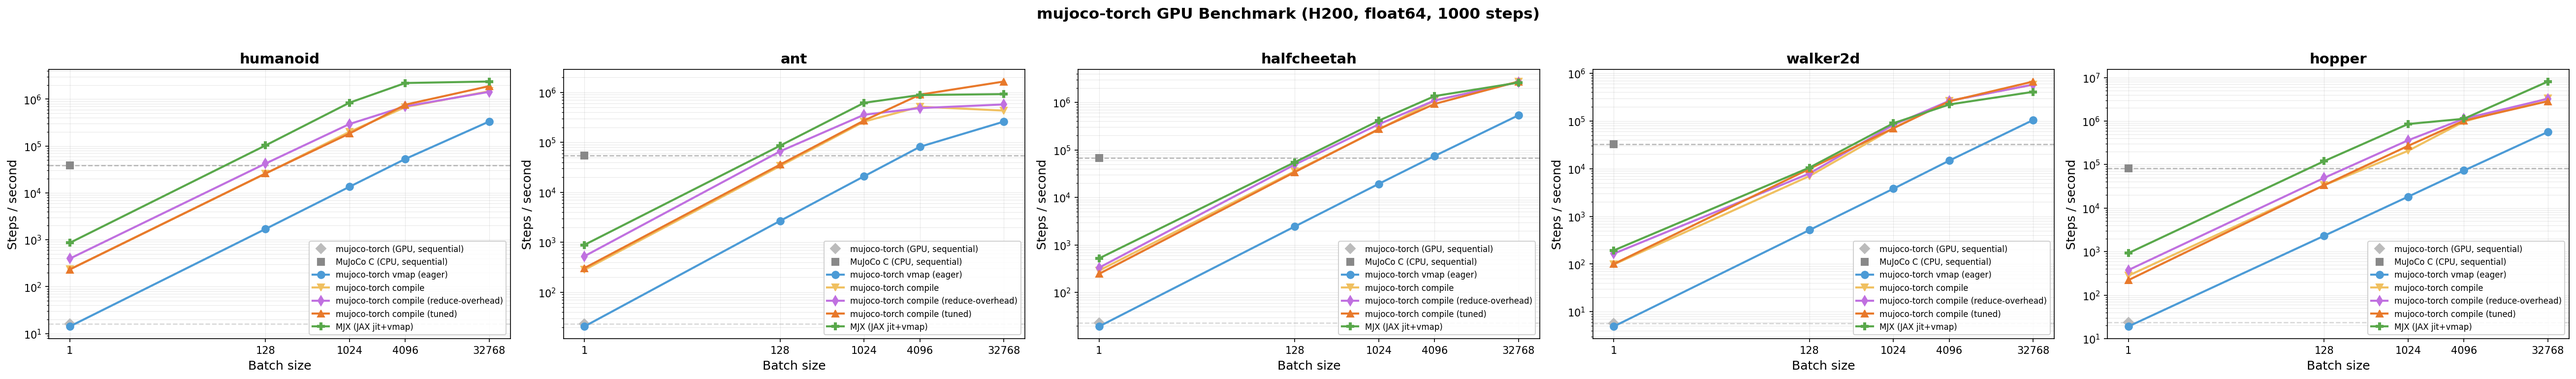
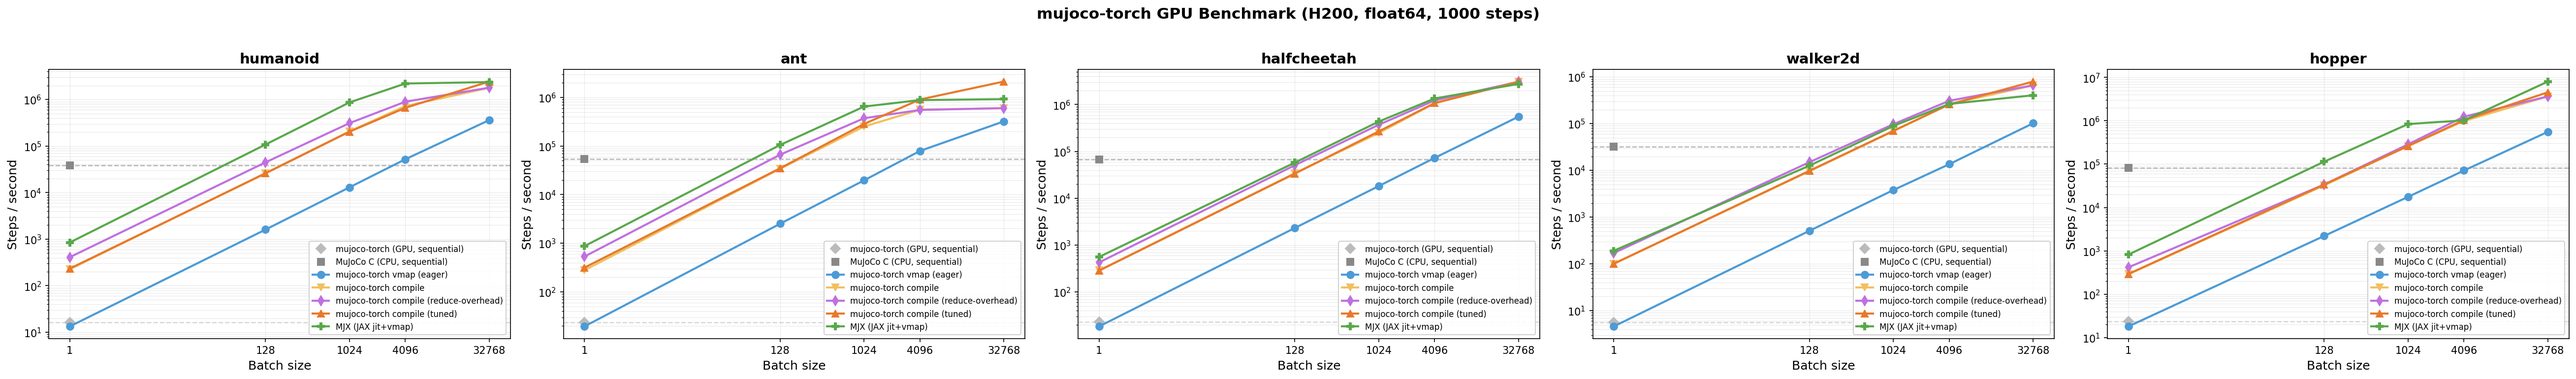
[docs] Update benchmark numbers after compile optimizations
Re-benchmarked all 5 configurations (vmap, compile, reduce-overhead,
tuned, MJX) on H200 with the final optimization stack (removed scan
padding, replaced torch.dot with pointwise mul+sum, replaced scatter_add
with gather-based segment_sum, and marked model params as graph
constants).

Key improvements at B=32768 (tuned):
- Humanoid: 1.9M → 2.4M steps/s (+29%)
- Ant: 1.6M → 2.1M steps/s (+29%)
- Hopper: 2.9M → 4.5M steps/s (+59%)
- Walker2d: 672K → 795K steps/s (+18%)
- Half-Cheetah: 2.7M → 3.1M steps/s (+12%)

Made-with: Cursor

diff --git a/README.md b/README.md
@@ -127,33 +127,33 @@ are measured at B=1 since they scale linearly.  All values are **steps/second**
 | Configuration | B=1 | B=128 | B=1 024 | B=4 096 | B=32 768 |
 |---|--:|--:|--:|--:|--:|
 | MuJoCo C (CPU, sequential) | 38,768 | — | — | — | — |
-| mujoco-torch vmap (eager) | 14 | 1,700 | 13,494 | 53,027 | 334,058 |
-| mujoco-torch compile | 234 | 25,784 | 200,706 | 676,553 | 1,477,151 |
-| mujoco-torch compile (reduce-overhead) | 396 | 42,240 | 294,420 | 701,833 | 1,432,973 |
-| **mujoco-torch compile (tuned)** | **232** | **25,989** | **184,480** | **761,727** | **1,896,593** |
-| MJX (JAX jit+vmap) | 859 | 102,978 | 838,698 | 2,209,482 | 2,375,375 |
+| mujoco-torch vmap (eager) | 13 | 1,607 | 12,985 | 52,221 | 362,656 |
+| mujoco-torch compile | 226 | 26,326 | 207,014 | 724,663 | 1,792,347 |
+| mujoco-torch compile (reduce-overhead) | 409 | 44,802 | 311,465 | 900,286 | 1,804,435 |
+| **mujoco-torch compile (tuned)** | **232** | **26,001** | **204,207** | **665,163** | **2,443,398** |
+| MJX (JAX jit+vmap) | 848 | 108,150 | 868,122 | 2,213,545 | 2,374,941 |
 
 ### Ant
 
 | Configuration | B=1 | B=128 | B=1 024 | B=4 096 | B=32 768 |
 |---|--:|--:|--:|--:|--:|
 | MuJoCo C (CPU, sequential) | 54,150 | — | — | — | — |
-| mujoco-torch vmap (eager) | 21 | 2,683 | 20,908 | 81,584 | 259,828 |
-| mujoco-torch compile | 280 | 33,580 | 259,898 | 517,094 | 431,315 |
-| mujoco-torch compile (reduce-overhead) | 525 | 66,201 | 356,275 | 484,570 | 573,536 |
-| **mujoco-torch compile (tuned)** | **304** | **35,880** | **272,681** | **900,759** | **1,647,590** |
-| MJX (JAX jit+vmap) | 886 | 85,786 | 617,852 | 884,782 | 922,100 |
+| mujoco-torch vmap (eager) | 19 | 2,525 | 19,692 | 79,340 | 321,886 |
+| mujoco-torch compile | 278 | 34,199 | 251,982 | 559,149 | 598,566 |
+| mujoco-torch compile (reduce-overhead) | 532 | 66,485 | 373,052 | 552,709 | 602,859 |
+| **mujoco-torch compile (tuned)** | **314** | **34,930** | **284,986** | **907,434** | **2,123,293** |
+| MJX (JAX jit+vmap) | 870 | 105,426 | 648,795 | 881,508 | 921,413 |
 
 ### Half-Cheetah
 
 | Configuration | B=1 | B=128 | B=1 024 | B=4 096 | B=32 768 |
 |---|--:|--:|--:|--:|--:|
 | MuJoCo C (CPU, sequential) | 67,788 | — | — | — | — |
-| mujoco-torch vmap (eager) | 19 | 2,452 | 19,298 | 74,569 | 536,138 |
-| mujoco-torch compile | 290 | 35,632 | 267,630 | 1,091,756 | 2,699,855 |
-| mujoco-torch compile (reduce-overhead) | 333 | 49,132 | 345,490 | 1,096,945 | 2,675,193 |
-| **mujoco-torch compile (tuned)** | **247** | **34,163** | **274,016** | **926,797** | **2,740,635** |
-| MJX (JAX jit+vmap) | 522 | 55,009 | 412,155 | 1,354,950 | 2,605,561 |
+| mujoco-torch vmap (eager) | 18 | 2,325 | 18,202 | 72,760 | 552,424 |
+| mujoco-torch compile | 288 | 34,286 | 247,063 | 1,066,654 | 3,100,180 |
+| mujoco-torch compile (reduce-overhead) | 427 | 50,790 | 370,647 | 1,227,338 | 3,054,295 |
+| **mujoco-torch compile (tuned)** | **285** | **33,623** | **267,320** | **1,074,758** | **3,069,120** |
+| MJX (JAX jit+vmap) | 559 | 57,773 | 433,249 | 1,348,620 | 2,753,825 |
 
 ### Walker2d
 
@@ -163,11 +163,11 @@ than Euler.
 | Configuration | B=1 | B=128 | B=1 024 | B=4 096 | B=32 768 |
 |---|--:|--:|--:|--:|--:|
 | MuJoCo C (CPU, sequential) | 32,426 | — | — | — | — |
-| mujoco-torch vmap (eager) | 5 | 516 | 3,796 | 14,769 | 104,954 |
-| mujoco-torch compile | 98 | 7,002 | 70,690 | 266,199 | 577,499 |
-| mujoco-torch compile (reduce-overhead) | 165 | 7,936 | 82,936 | 263,704 | 579,711 |
-| **mujoco-torch compile (tuned)** | **100** | **9,926** | **70,275** | **257,977** | **671,765** |
-| MJX (JAX jit+vmap) | 193 | 10,515 | 89,691 | 221,813 | 408,517 |
+| mujoco-torch vmap (eager) | 4 | 510 | 3,796 | 13,583 | 102,069 |
+| mujoco-torch compile | 100 | 9,613 | 68,941 | 262,058 | 656,796 |
+| mujoco-torch compile (reduce-overhead) | 170 | 14,992 | 97,277 | 308,591 | 661,354 |
+| **mujoco-torch compile (tuned)** | **100** | **9,806** | **70,020** | **258,043** | **795,087** |
+| MJX (JAX jit+vmap) | 190 | 12,644 | 89,340 | 263,464 | 404,107 |
 
 ### Hopper
 
@@ -176,11 +176,11 @@ Hopper uses the RK4 integrator (like Walker2d).
 | Configuration | B=1 | B=128 | B=1 024 | B=4 096 | B=32 768 |
 |---|--:|--:|--:|--:|--:|
 | MuJoCo C (CPU, sequential) | 81,569 | — | — | — | — |
-| mujoco-torch vmap (eager) | 19 | 2,307 | 18,257 | 72,910 | 562,866 |
-| mujoco-torch compile | 279 | 33,411 | 206,603 | 973,214 | 3,318,016 |
-| mujoco-torch compile (reduce-overhead) | 376 | 49,411 | 361,234 | 1,133,846 | 3,253,214 |
-| **mujoco-torch compile (tuned)** | **221** | **33,568** | **268,589** | **1,020,036** | **2,862,786** |
-| MJX (JAX jit+vmap) | 921 | 119,865 | 854,200 | 1,128,406 | 8,097,292 |
+| mujoco-torch vmap (eager) | 17 | 2,200 | 17,565 | 71,260 | 557,476 |
+| mujoco-torch compile | 286 | 32,353 | 260,614 | 991,503 | 3,660,399 |
+| mujoco-torch compile (reduce-overhead) | 415 | 33,836 | 286,121 | 1,244,707 | 3,650,605 |
+| **mujoco-torch compile (tuned)** | **291** | **33,834** | **262,048** | **1,040,920** | **4,547,076** |
+| MJX (JAX jit+vmap) | 817 | 114,045 | 841,375 | 1,024,240 | 8,061,349 |
 
 **"reduce-overhead"** = `torch.compile(mode="reduce-overhead")`, which captures
 the compiled graph into CUDA graphs to eliminate kernel launch overhead.
